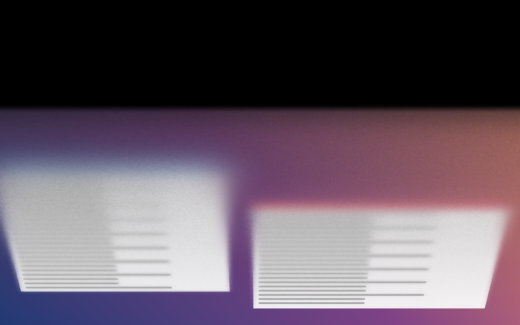
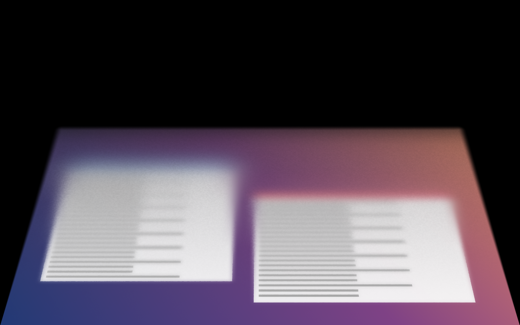
Fold the pane away from the viewer so it converges
The pane was rotating toward the viewer, so perspective magnified it and the
free edge spread wider as the lid closed. A closing lid does the opposite: it
folds away, foreshortening and converging until the picture collapses toward the
hinge line at the bottom of the display.

Negating z fixes it, and Mac Duo's own control names the behaviour — perspective
is described as how hard the pane converges, which only makes sense folding
away. It also keeps w > 1 across the pane, so the near plane can never be
crossed however hard the perspective is set; previously a strong setting with a
large tilt could approach w = 0.

Widens the perspective range now that convergence is the visible signature.

Changed region(s): [[0.0, 0.3077, 1.0, 1.0], [0.7692, 0.7385, 0.8308, 0.8308]]

diff --git a/Sources/FrostFold/Shaders.swift b/Sources/FrostFold/Shaders.swift
@@ -119,9 +119,11 @@ struct PaneOut {
     float  lift;   // 0 at the hinge, 1 at the free edge
 };
 
-// The pane is hinged along the bottom edge of the display and tilts toward the
-// viewer, carrying the picture with it. The bottom stays pinned; the free edge
-// lifts, and the gap underneath it is what drives the frost.
+// The pane is hinged along the bottom edge of the display and folds away from
+// the viewer, carrying the picture with it — the way a lid closes, not the way
+// a page lifts. The hinge stays pinned at full width while everything above it
+// foreshortens and converges, so the pane collapses toward the hinge line
+// rather than spreading. The gap under the free edge is what drives the frost.
 vertex PaneOut pane_vertex(uint vid [[vertex_id]],
                            constant PaneUniforms& u [[buffer(0)]]) {
     const float2 corners[4] = { float2(-1,-1), float2(1,-1), float2(-1,1), float2(1,1) };
@@ -131,10 +133,11 @@ vertex PaneOut pane_vertex(uint vid [[vertex_id]],
     float c = cos(u.foldRadians);
     float s = sin(u.foldRadians);
     float y = h * c - 1.0;
-    float z = h * s;                  // toward the viewer
+    float z = -h * s;                 // away from the viewer
 
     // Leave the divide to the rasteriser so the picture stays perspective
-    // correct across the whole pane.
+    // correct across the whole pane. Folding away keeps w > 1 throughout, so
+    // the near plane can never be crossed however hard the perspective is set.
     float w = (u.cameraDistance - z) / u.cameraDistance;
 
     PaneOut out;

diff --git a/Sources/FrostFold/EffectController.swift b/Sources/FrostFold/EffectController.swift
@@ -204,7 +204,7 @@ final class EffectController: ObservableObject {
 
         var u = Shaders.PaneUniforms()
         u.foldRadians = Float(tilt)
-        u.cameraDistance = Float(12.0 - 8.5 * s.perspective)   // 12 (flat) ... 3.5 (hard)
+        u.cameraDistance = Float(9.0 - 6.5 * s.perspective)    // 9 (flat) ... 2.5 (hard)
         // Normalised so the free edge reaches the intensity's frost gain when
         // the fold is fully in, whatever the maximum tilt happens to be.
         u.frostAmount = s.intensity.frostGain / Float(max(0.05, sin(maxTilt)))

diff --git a/Tools/filmstrip/main.swift b/Tools/filmstrip/main.swift
@@ -162,7 +162,7 @@ for angle in angles {
 
     var u = Shaders.PaneUniforms()
     u.foldRadians    = Float(tilt)
-    u.cameraDistance = Float(12.0 - 8.5 * settings.perspective)
+    u.cameraDistance = Float(9.0 - 6.5 * settings.perspective)
     u.frostAmount    = settings.intensity.frostGain / Float(max(0.05, sin(maxTilt)))
     u.gapCurve       = Float(0.75 + 1.15 * settings.perspective)
     u.edgeSoftness   = Float(settings.edgeSoftness)

diff --git a/README.md b/README.md
@@ -32,9 +32,12 @@ account, no licence key, no network code of any kind.
 
 ## The fold
 
-The pane is hinged along the bottom edge of the display and tilts toward you,
-carrying the picture with it. Two things follow from that, and together they are
-the whole effect.
+The pane is hinged along the bottom edge of the display and folds *away* from
+you, carrying the picture with it — the way a lid closes, not the way a page
+lifts. The hinge stays pinned at full width while everything above it
+foreshortens and converges, so the picture collapses toward the hinge line
+instead of spreading. Three things follow, and together they are the whole
+effect.
 
 **The gap drives the frost.** The glass still meets the display at the hinge and
 lifts further away toward its free edge, so the gap is nothing at the bottom and
@@ -43,8 +46,11 @@ while the top goes milky. Hold frosted glass against text and you can read it;
 lift it away and you cannot.
 
 **What it lifts off has nothing left to show.** The picture has gone with the
-glass, so the display behind the pane blacks out — and as the pane leans further
-away, less light reaches you and the glass dims with it.
+glass, so the display behind the pane blacks out, and the black opens up from
+the top as the pane converges.
+
+**It dims as it leans.** Less light reaches you the further the pane tips away,
+so the glass darkens along with the gap.
 
 <table>
 <tr>
@@ -55,7 +61,7 @@ away, less light reaches you and the glass dims with it.
 <tr>
 <td align="center"><strong>125°</strong><br><sub>above the engage angle — nothing<br>renders, capture is off</sub></td>
 <td align="center"><strong>85°</strong><br><sub>the gap opens at the free edge</sub></td>
-<td align="center"><strong>28°</strong><br><sub>leaning hard, blacking out above</sub></td>
+<td align="center"><strong>28°</strong><br><sub>collapsed toward the hinge,<br>blacked out above</sub></td>
 </tr>
 </table>
 
@@ -111,7 +117,7 @@ hundred times.
 | | |
 |---|---|
 | **Intensity** | Low / Medium / High. How milky the top edge gets once the fold is fully in. |
-| **Perspective** | How hard the gap opens toward the top. Higher keeps the lower half clear for longer and concentrates the milk at the top. |
+| **Perspective** | How hard the pane converges as it folds away, and with it how fast the gap opens. Higher narrows the free edge further and concentrates the milk at the top. |
 | **Edge softness** | Fall-off at the pane's free edges. The hinged edge stays pinned to the display and never fades. |
 | **Dimming** | How far the glass darkens as the gap opens. |
 | **Corner radius** | Rounding on the free corners, in points, so you can match your display's own rounding. The hinged edge runs straight. |
@@ -142,10 +148,13 @@ Frames arrive as `IOSurface`-backed pixel buffers and become Metal textures
 without a copy.
 
 **The render.** The pane is a real quad in 3D, hinged along `y = -1` and rotated
-about that edge. The vertex shader hands the rasteriser a `w` of `(D - z) / D`
-and lets the hardware do the perspective divide, so the picture stays correct
-across the whole pane rather than warping the way a 2D fake does. Everything the
-pane no longer covers is filled black, because the picture left with the glass.
+about that edge, away from the viewer. The vertex shader hands the rasteriser a
+`w` of `(D - z) / D` and lets the hardware do the perspective divide, so the
+picture stays correct across the whole pane rather than warping the way a 2D
+fake does. Folding away rather than toward also keeps `w > 1` everywhere, so the
+near plane can never be crossed however hard the perspective is set. Everything
+the pane no longer covers is filled black, because the picture left with the
+glass.
 
 The gap at any point on the pane is its distance from the hinge times the sine of
 the tilt — zero at the hinge by construction, which is why the bottom stays
